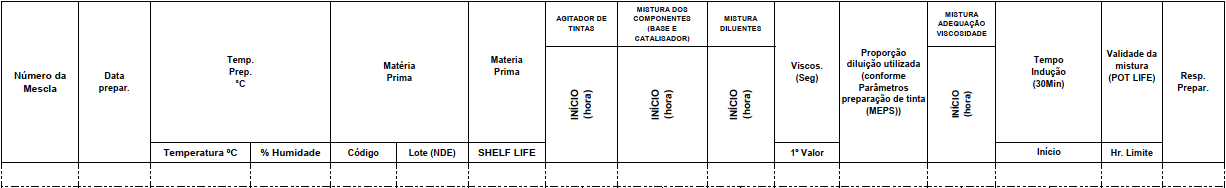
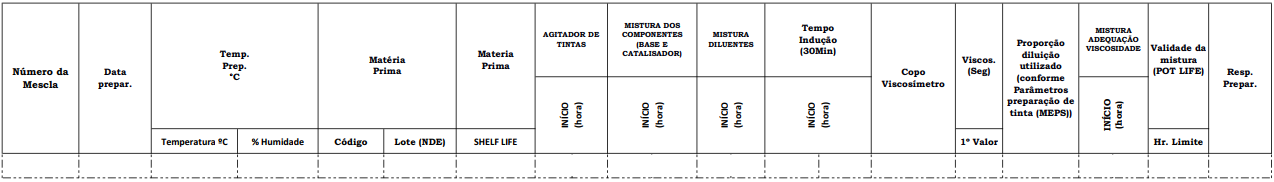
Mudança de layout do Form_40 + Reorganização dos campos

diff --git a/form_40.py b/form_40.py
@@ -73,7 +73,7 @@ class Form_40(Toplevel):
                         banco = sqlite3.connect(self.db)
                         cursor = banco.cursor()
                 except Exception as ex: messagebox.showerror(message=[ex, type(ex)])
-                self.geometry("1230x230")
+                self.geometry("1280x230")
                 self.title('Form_40')
                 self.configure(bg='white')
                 self.iconbitmap(r'logo.ico')
@@ -114,25 +114,29 @@ class Form_40(Toplevel):
                 self.plife_field = Entry(self)
                 self.resp = Label(self, text=self.cod_ope, font="Arial 8 bold", bg='white')
 
-                self.mescla_field.place(x=8, y=167, width=70) 
-                self.data_field.place(x=90, y=167) 
-                self.temp_field.place(x=158, y=167, width=87)
-                self.um_field.place(x=258, y=167, width=67)
-                self.codmp_field.place(x=337, y=167, width=58)
-                self.lotemp.place(x=403, y=167, width=60) 
-                self.shelf_field.place(x=475, y=167, width=64)
-                self.iagi_field.place(x=552, y=167, width=64)
-                self.imcom_field.place(x=624, y=167, width=78)
-                self.imdil_field.place(x=713, y=167, width=60)
-                self.visc_field.place(x=780, y=167, width=60)
-                self.prop_field.place(x=846, y=167, width=76)
-                self.iniade_field.place(x=933, y=167, width=60)
-                self.ii_field.place(x=1003, y=167, width=95)
-                self.plife_field.place(x=1108, y=167, width=50)
-                self.resp.place(x=1180, y=167)
+                self.mescla_field.place(x=8, y=157, width=70) 
+                self.data_field.place(x=90, y=157) 
+                self.temp_field.place(x=157, y=157, width=81)
+                self.um_field.place(x=247, y=157, width=67)
+                self.codmp_field.place(x=327, y=157, width=58)
+                self.lotemp.place(x=395, y=157, width=60) 
+                self.shelf_field.place(x=468, y=157, width=64)
+                self.iagi_field.place(x=542, y=157, width=64)
+                self.imcom_field.place(x=616, y=157, width=78)
+                self.imdil_field.place(x=705, y=157, width=60)
+                
+                self.ii_field.place(x=772, y=157, width=93)
+                
+                #Copo Viscosimetro
+                
+                self.visc_field.place(x=961, y=157, width=36)
+                self.prop_field.place(x=1008, y=157, width=69)
+                self.iniade_field.place(x=1085, y=157, width=60)
+                self.plife_field.place(x=1156, y=157, width=50)
+                self.resp.place(x=1223, y=157)
 
                 self.submit = Button(self, text="Enviar Informações", fg="Black", bg="Red", font="Arial 8 bold", command=lambda:[self.insert()])
-                self.submit.place(x=1106, y=200)
+                self.submit.place(x=1108, y=200)
                 
                 dados = (self.mescla_atual ,
                         self.agora ,
